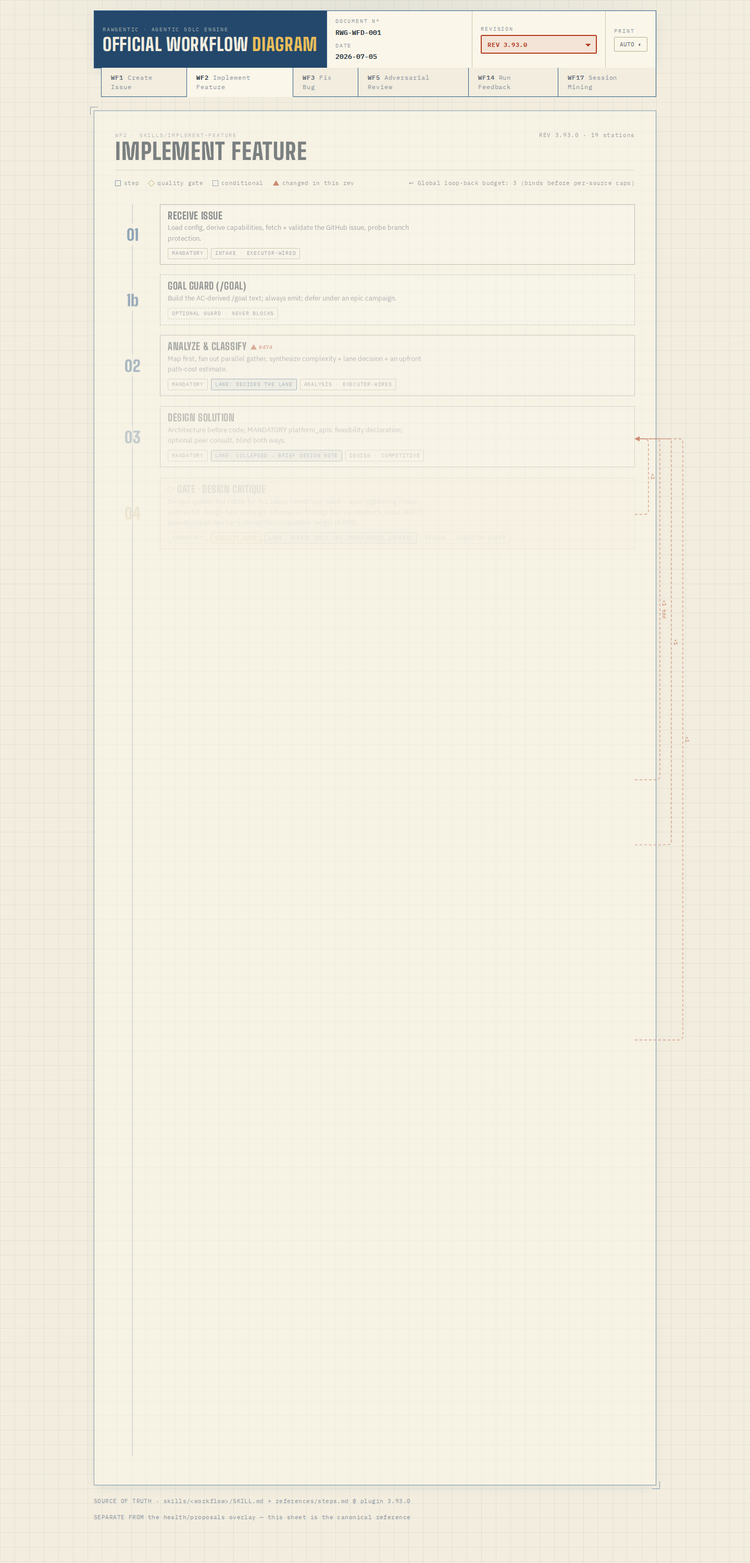
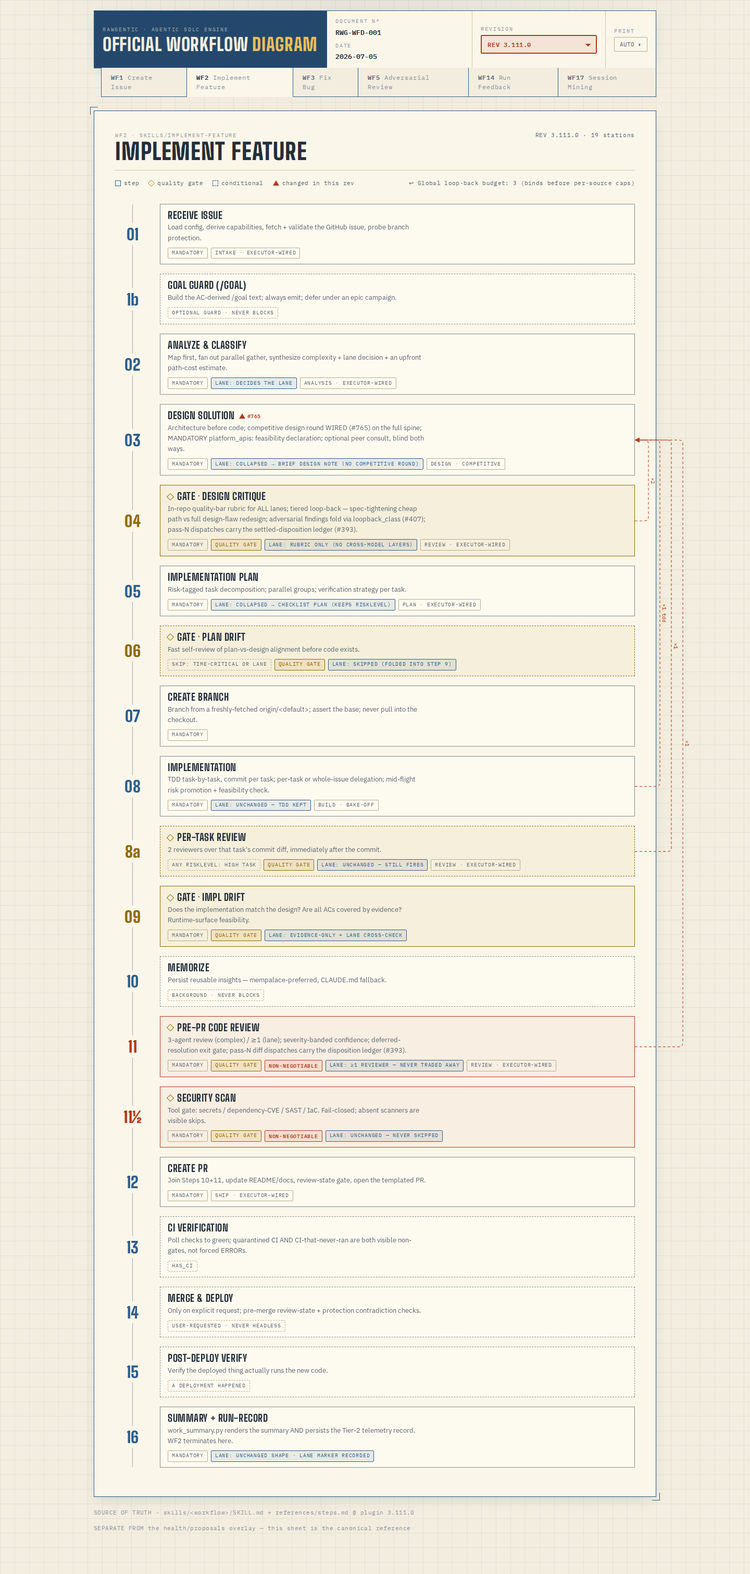
feat(diagram): REV 3.111.0 — station-3 bake-off wired; snapshot waits out the draw-in animation (#765)

diff --git a/docs/workflow-diagram.html b/docs/workflow-diagram.html
@@ -246,7 +246,7 @@ dialog.modal .sheet{margin-top:0;border:0;box-shadow:none;animation:none}
   <main id="app"></main>
 
   <div class="prov">
-    <span>SOURCE OF TRUTH · skills/&lt;workflow&gt;/SKILL.md + references/steps.md @ plugin 3.93.0</span>
+    <span>SOURCE OF TRUTH · skills/&lt;workflow&gt;/SKILL.md + references/steps.md @ plugin 3.111.0</span>
     <span>SEPARATE FROM the health/proposals overlay — this sheet is the canonical reference</span>
   </div>
 </div>
@@ -259,7 +259,7 @@ const DATA = {
   workflows: {
   wf2: {
     code:"WF2", name:"Implement Feature", skill:"skills/implement-feature",
-    revs:["3.93.0","3.78.0","3.75.0","3.40.0","3.39.0","3.18.0","3.17.0","3.16.0","3.13.0","3.12.0","3.10.0","3.1.0"],
+    revs:["3.111.0","3.93.0","3.78.0","3.75.0","3.40.0","3.39.0","3.18.0","3.17.0","3.16.0","3.13.0","3.12.0","3.10.0","3.1.0"],
     loopbacks:[
       {from:"4",to:"3",label:"×2"},
       {from:"8",to:"3",label:"×1 tdd"},
@@ -268,7 +268,123 @@ const DATA = {
     ],
     loopnote:"Global loop-back budget: 3 (binds before per-source caps)",
     versions: {
-      "3.93.0": { superseded:false, steps:[
+      "3.111.0": { superseded:false, steps:[
+        {id:"1", num:"01", name:"Receive Issue", kind:"step", mand:true,
+         sum:"Load config, derive capabilities, fetch + validate the GitHub issue, probe branch protection.",
+         lane:"unchanged",
+         purpose:"Foundation — wrong issue means wrong implementation. Loads the project config through capabilities_lib (one tested source of truth, never hand-derived), fetches and validates the issue, surfaces the detected capabilities for confirmation, and probes server-side branch protection so a passed PR never overstates its guarantees.",
+         sub:[["a","Load .rawgentic.json via capabilities_lib derive — config and capabilities objects feed every later step"],["b","Fetch the issue via gh; validate it exists and is open"],["c","WF1-origin check; extract acceptance criteria, components, complexity from the body"],["d","Display issue + capabilities + the suggested goal guard; one confirmation round-trip"],["e","CI-quarantine staleness nag when quarantined >30 days (advisory, never blocks)"],["f","Branch-protection probe → classify (protected / unprotected / unknown); carried to Steps 12 + 14"]],
+         facts:[["Config","capabilities_lib — one source of truth"],["Probe","fail-open; unknown ≠ unprotected"],["Closed issue","ask reopen · headless ERROR"]]},
+        {id:"1b", num:"1b", name:"Goal Guard (/goal)", kind:"step", mand:false, cond:"optional guard · never blocks",
+         sum:"Build the AC-derived /goal text; always emit; defer under an epic campaign.",
+         lane:"unchanged",
+         purpose:"Gives the session's Stop-hook a concrete AC-derived condition so a run can't be silently abandoned before the acceptance criteria are met. A skill cannot set a session goal itself — it constructs the text; the user or headless driver runs it.",
+         sub:[["a","Build via plan_lib.build_goal_text(issue, ACs, variant=\"wf2\") — ≤4000 chars, PR-terminal wording, escape disjunct appended"],["b","Fold into Step 1's confirmation — no second prompt; declining is always valid"],["c","ALWAYS emit — the skill can't observe whether a prior goal is active, so it never suppresses"],["d","Epic-campaign exception: RAWGENTIC_EPIC_GOAL set → DEFER (the epic-level goal already guards the run)"],["e","Record the marker; Step 16 reads it into the run-record goal_guard field"]],
+         facts:[["Wording","PR-terminal — never \"merged\""],["Marker vocab","set · deferred · skipped · fired"]]},
+        {id:"2", num:"02", name:"Analyze & Classify", kind:"step", mand:true,
+         sum:"Map first, fan out parallel gather, synthesize complexity + lane decision + an upfront path-cost estimate.",
+         lane:"decides the lane",
+         purpose:"Complexity classification drives every downstream decision — it is AUTHORITATIVE and overrides any issue label. The lane decision (plan_lib.lane_decision) and the trivial-work check are the two places WF2 right-sizes its own ceremony — and the #224 path estimate makes that choice informed: agent count + rough minutes for both paths, before committing to the heavy spine.",
+         sub:[["a","Component mapping runs first — every other analysis consumes it; remaining analyses fan out as concurrent EXECUTOR dispatches of the analysis seat (D-2, ≤3 concurrent)"],["b","Dependency / blast-radius analysis → existing-test inventory (sequential pair)"],["c","Memory recall (mempalace) + library research (Context7) — concurrent lanes"],["d","Synthesis: complexity class, lane eligibility, trivial-work check (the one sanctioned WF2 exit)"],["e","Path estimate (#224): plan_lib.estimate_agents for BOTH paths, emitted before the lane choice; high-risk = lower bound; estimate, not a contract"],["f","Lane election (#225): secondary signal (≤3 bounded defects, each ≤7, total ≤21) or operator override (Force lane / RAWGENTIC_WF2_FORCE_LANE) — hard guards unbypassable; sanctioned count logged for Step 9"],["g","Worktree-isolation probe + executor probe at run start → begin-run DECLARES the run architecture in the ledger initial record (#474); executor is the DEFAULT (defaultArchitecture absent = executor), never mixed mid-run"]],
+         facts:[["Classes","simple · standard · complex"],["Lane rule","≤7 impl files (or #225 election: ≤3 defects · total ≤21), no arch/migration/dep"],["Estimate","estimate_agents · derived, never hard-coded"],["Architecture","begin-run declares · executor default · legacy = joint rollback (#474)"]]},
+        {id:"3", rev:{delta:"Competitive bake-off WIRED (owner decision D26): full-spine design generation dispatches one sol-vs-opus round via bakeoff_policy.py design-round, glm-judged, carrying the run's identity into the audit record; the lane keeps its brief note",refs:["#765"]}, num:"03", name:"Design Solution", kind:"step", mand:true,
+         sum:"Architecture before code; competitive design round WIRED (#765) on the full spine; MANDATORY platform_apis: feasibility declaration; optional peer consult, blind both ways.",
+         lane:"collapsed → brief design note (no competitive round)",
+         purpose:"Produce the design document before any implementation: file changes, configuration, error handling and failure modes, security implications — plus project-type extras (data flow + migrations for applications, containers + rollback for infrastructure). The small-standard lane collapses this to a brief design note because bounded work has one obvious approach.",
+         sub:[["a","Competitive design round (#765, full spine): python3 hooks/bakeoff_policy.py design-round --prompt-file <brief> --run-id wf2-<issue>-<session> --correlation-id <issue>-s3-design — sol vs opus concurrent, glm-5.2 judge, the winner's exact bytes become the design draft; sanitized --evidence-out record joins the run's audit context (raw sink stays gitignored); judge failure: exit 3 fail-loud interactive, judge_degraded incumbent under --headless"],["b","Opt-in peer consult dispatches in the BACKGROUND, blind both ways — your own draft must be on disk before reading the peer's"],["c","2–3 approaches (complex, via subagent brainstorm) or 1–2 inline (standard); pick with rationale"],["d","Design doc: file changes, config changes, error handling, security implications (+ type-specific sections)"],["e","Multi-PR assessment: >500 lines or separable phases → flag for decomposition in Step 5"],["f","Peer-consult failure is non-blocking — gate on exit code; empty proposal → proceed with your own design"],["g","platform_apis: declaration — `none` or evidence-cited blocks; assumed=Step-4 blocker; working-precedent = exact API on exact object kind; fail-silent needs a surfacing assertion"]],
+         facts:[["Bake-off","WIRED (#765) · sol vs opus · glm judge · run-identity on record"],["Peer consult","opt-in · background · non-blocking"],["Blindness","own draft first, both ways"],["Feasibility","platform_apis: mandatory · omission blocks (#226)"]]},
+        {id:"4", num:"04", name:"Gate · Design Critique", kind:"gate", mand:true,
+         sum:"In-repo quality-bar rubric for ALL lanes; tiered loop-back — spec-tightening cheap path vs full design-flaw redesign; adversarial findings fold via loopback_class (#407); pass-N dispatches carry the settled-disposition ledger (#393).",
+         lane:"rubric only (no cross-model layers)",
+         purpose:"Catches design flaws BEFORE implementation — the cheapest place to catch them. Every lane runs the in-repo quality-bar rubric (stance + depth triage + finding shape); the full spine may add the opt-in cross-model adversarial-on-design pass, dispatched CONCURRENTLY with the self-review and joined at a single barrier. Not every Critical/High costs a full redesign: a pure spec-tightening set (wording, stale anchors, internal contradictions) takes a cheap amend-and-verify pass in-gate (#223).",
+         sub:[["a","Self-review the design against the quality-bar rubric → findings with severity, category, ambiguity flag, Loopback-class (Critical/High)"],["b","(full spine, opt-in) adversarial-on-design — cross-model, report-only, dispatched concurrently"],["c","Join barrier: merge self-review + adversarial findings; the ambiguity circuit-breaker runs EXACTLY once"],["d","Volume thresholds → loop back to Step 3 (max 2) via plan_lib.consume_loopback; NEVER folds to the cheap path; in-flight adversarial result is discarded as stale"],["e","Post-breaker fold (#223, #407): classify_loopback_source over the Critical/High Loopback-class tags — adversarial findings contribute via adversarial_review_lib.loopback_class_entries (security-category → untagged UNCONDITIONALLY; exact-vocab after strip; absent/off-vocab → untagged); all spec-tightening → consume spec_tighten (max 2), amend sections in place + ONE incremental verifier whose brief carries the originating findings from the --findings-json sidecar (each confirmed resolved or escalate), no Step-3 return; escalate on any new Critical/High or ambiguity"],["f","Cross-model failure is non-blocking — the breaker still runs over self-review findings alone"],["g","Platform-feasibility (#226): run plan_lib.assert_feasibility_declared over platform_apis:; non-ok = blocking; also flag a used-but-undeclared API"],["h","Pass-N ledger dispatch (#393): fold dispositions.jsonl \u2192 0600 temp copy \u2192 --dispositions/--issue on the engine call; exit 6 \u2192 failed (ledger integrity) loud abort; benign failures \u2192 ledger: degraded marker, review still runs"],["i","Gate close (#393): append each Critical/High terminal disposition via plan_lib.append_disposition; join backstop auto-dissolves DECLINED/DISSOLVED re-litigation (REOPENS-aware), surfaces ADOPTED matches as possible failed remediation"]],
+         facts:[["Loop-back","→ Step 3 ×2 (design) · in-gate ×2 (spec_tighten)"],["Breaker","EXACTLY once, merged findings"],["Fold","fail-closed; untagged/volume → full path; adversarial foldable via loopback_class (#407)"],["Ledger","dispositions.jsonl · pass-N memory (#393)"]]},
+        {id:"5", num:"05", name:"Implementation Plan", kind:"step", mand:true,
+         sum:"Risk-tagged task decomposition; parallel groups; verification strategy per task.",
+         lane:"collapsed → checklist plan (keeps riskLevel)",
+         purpose:"Task decomposition enables TDD and progress tracking. Every task carries a riskLevel against 8 canonical criteria — high-risk tasks are what trigger the Step 8a per-task review — and the plan format fails closed: a task without a riskLevel line is a parse error, never a silent default.",
+         sub:[["a","Branch naming: feature/<issue>-<slug> or fix/<issue>-<slug>"],["b","Decompose into 2–10-minute tasks; Red-Green-Refactor per task (or Implement-Verify without tests)"],["c","parallel_group + files lines; plan_lib.validate_parallel_groups proves disjointness — unprovable groups degrade to serial"],["d","riskLevel: high|standard per the 8 criteria (security surface, module boundary, error flow, infra, middleware, deserialization, subprocess, regex-on-untrusted); path allowlist auto-tags high"],["e","Calibration bands: warn >30% high-risk · halt >50% · decompose ≥80% · implausible-zero flagged"],["f","Verification strategy per task; deferred-to-target(reason) for unexercisable artifacts — a deferral still requires its best local proxy"]],
+         facts:[["Risk criteria","8, canonical in plan_lib"],["Ratio bands","warn 30 · halt 50 · decompose 80"],["Format","riskLevel missing → fail closed"]]},
+        {id:"6", num:"06", name:"Gate · Plan Drift", kind:"gate", mand:false, cond:"skip: time-critical or lane",
+         sum:"Fast self-review of plan-vs-design alignment before code exists.",
+         lane:"SKIPPED (folded into Step 9)",
+         purpose:"Lightweight check that the plan still implements the critiqued design. The one step the small-standard lane removes entirely — a 3-task checklist has no drift surface; Step 9 still verifies acceptance-criteria coverage.",
+         sub:[["a","Rubric over: design→task mapping, verification completeness, AC coverage, task ordering, checkpoint adequacy"],["b","(opt-in) adversarial-on-plan — merged findings, one breaker, report-only"],["c","Critical/High design-level flaw → consume ONE design loop-back, return to Step 3"]],
+         facts:[["Skip","time-critical or lane"],["Loop-back","shares the design source (×2 total)"]]},
+        {id:"7", num:"07", name:"Create Branch", kind:"step", mand:true,
+         sum:"Branch from a freshly-fetched origin/<default>; assert the base; never pull into the checkout.",
+         lane:"unchanged",
+         purpose:"Git isolation is non-negotiable. git pull into the current checkout would merge the default INTO whatever branch is checked out — in a multi-issue campaign that silently carries a sibling's unmerged commits into this PR. Fetch, branch off origin/<default>, and assert the base before writing any code.",
+         sub:[["a","Clean-tree check; stash if dirty (headless: always stash + note it on the issue)"],["b","git fetch origin <default>; git checkout -b <branch> origin/<default> — never pull first"],["c","Base assertion: merge-base HEAD == origin/<default> HEAD, or STOP — never build on a wrong base"],["d","Push -u origin; comment the branch on the issue"]],
+         facts:[["Base assert","BASE_OK or STOP"],["Why no pull","sibling-branch mutation hazard"]]},
+        {id:"8", num:"08", name:"Implementation", kind:"step", mand:true,
+         sum:"TDD task-by-task, commit per task; per-task or whole-issue delegation; mid-flight risk promotion + feasibility check.",
+         lane:"unchanged — TDD kept",
+         purpose:"The actual work. Each plan task runs red-before-green TDD and commits atomically, staging ONLY that task's files. Delegated builds run in isolated git worktrees; the typing can be delegated but the gating never is — every receipt claim is re-verified against the real tree.",
+         sub:[["a","Per task: RED failing test → GREEN minimum code → REFACTOR; conventional commit staging only this task's files"],["b","Per-task model via select_impl_model — the routed model is a CEILING, not a blanket; never Haiku for code"],["c","Delegation: per-task worktree agents (collect the SHA, assert the branch advanced — an unlanded SHA is not done) or one whole-issue build validated by receipt"],["d","Mid-flight risk promotion: mechanical (path allowlist, ≥200 LOC) or agent-flagged → fires Step 8a + a retroactive scan of prior commits"],["e","A fundamental design flaw loops back to Step 3 (max 1, source: tdd)"],["f","Push at natural checkpoints; concurrent execution stays off by default (serial floor)"],["g","Mid-flight feasibility check (#226): a fix/iteration that introduces a NEW platform API bypassing the design gate applies the AC1/3/4 check inline before committing"]],
+         facts:[["Build seat","supervised: gate-auth · --plan-file mint · two-phase canary · probe session · codex-only mutating"],["Architecture","executor default · NO runtime fallback · legacy = declared rollback only (#474)"],["Loop-back","→ Step 3, max 1 (source: tdd)"],["Isolation","git worktree per mutating agent"],["Mid-flight feasibility","gate-bypassing changes re-checked (#226)"]]},
+        {id:"8a", num:"8a", name:"Per-Task Review", kind:"gate", mand:false, cond:"any riskLevel: high task",
+         sum:"2 reviewers over that task's commit diff, immediately after the commit.",
+         lane:"unchanged — still fires",
+         purpose:"Risk-stratified review (P15): high-risk tasks get reviewed at the commit, when the diff is small and the fix is cheap, instead of waiting for the PR-sized diff. Severity-banded confidence keeps Critical/High findings from being hidden behind a high confidence bar.",
+         sub:[["a","Capture the commit's diff (git show)"],["b","2 parallel reviewers: code-level (style/bugs/logic) + silent-failure hunt (swallowed catches, unchecked async, missing rejects)"],["c","Severity-banded confidence filter (Crit .50 · High .65 · Med .80 · Low .90)"],["d","Triage: Critical blocks the next task; High fixes-or-defers (a deferral MUST be re-presented at Step 11); Med/Low advisory"],["e","Review log + review-state pointer (local, git-excluded) updated; design-level flaw → loop-back (×1, source: review_design)"]],
+         facts:[["Reviewers","2 (inline roles)"],["Loop-back","→ Step 3, max 1 (source: review_design)"],["Confidence bands","Crit .50 · High .65 · Med .80 · Low .90"]]},
+        {id:"9", num:"09", name:"Gate · Impl Drift", kind:"gate", mand:true,
+         sum:"Does the implementation match the design? Are all ACs covered by evidence? Runtime-surface feasibility.",
+         lane:"evidence-only + lane cross-check",
+         purpose:"Part A: alignment self-review — plan↔implementation, design↔implementation, an explicit test covering each acceptance criterion, docs updated. Part B: evidence — run the full suite and record the delta against the recorded baseline. The lane runs Part B only, plus a cross-check that the REAL changed-file count didn't overshoot the lane estimate.",
+         sub:[["a","Part A: plan/design/AC/docs alignment via the quality-bar rubric"],["b","P15 coverage assertion: every high-risk task has an applied|deferred review-log entry — REVIEW_DISPATCH_FAILED never counts"],["c","Implausibility check: a 0%-high-risk plan whose diff touches security paths fails Part A"],["d","Part B: full suite vs baseline; new tests must test NEW behavior; no regressions"],["e","Deferred-to-target tasks listed with their local proxy — never counted as verified, never silently passed"],["f","Lane cross-check: recount impl files from the real diff; material overshoot → lane-widened note (never retroactive failure)"],["g","Runtime-surface feasibility (#226): a real-surface spike OR a deferred-to-target naming the single likeliest-wrong claim in target_check — a green suite doesn't exercise a permission-gated call"]],
+         facts:[["Lane cross-check","real count vs LANE_MAX_IMPL_FILES"],["Runtime surface","spike or name the likeliest-wrong claim (#226)"]]},
+        {id:"10", num:"10", name:"Memorize", kind:"step", mand:false, cond:"background · never blocks",
+         sum:"Persist reusable insights — mempalace-preferred, CLAUDE.md fallback.",
+         lane:"unchanged",
+         purpose:"Curates insights discovered during the run into durable memory — patterns applicable beyond this issue, never issue-local trivia. Dispatched in parallel with Step 11 and never blocks the workflow.",
+         sub:[["a","Review the gate findings from Steps 4, 6, 9 for reusable patterns"],["b","Store via mempalace kg_add (facts/decisions) or add_drawer (notes), scoped to the project"],["c","Fallback on absence OR store failure: dedup-check against CLAUDE.md/MEMORY.md, append if novel"],["d","Nothing reusable → skip entirely"]],
+         facts:[["Runs","parallel with Step 11, background"],["Fallback","on absence OR store failure"]]},
+        {id:"11", num:"11", name:"Pre-PR Code Review", kind:"gate", mand:true, nonneg:true,
+         sum:"3-agent review (complex) / ≥1 (lane); severity-banded confidence; deferred-resolution exit gate; pass-N diff dispatches carry the disposition ledger (#393).",
+         lane:"≥1 reviewer — never traded away",
+         purpose:"NON-NEGOTIABLE. This step found 2 Critical security issues (HTML injection + path traversal) on a run the orchestrator judged too simple to review. Read-only reviewer agents hunt real defects over the full branch diff; every Step 8a deferral must be re-evaluated here, and Step 11 cannot complete while any Critical/High remains unresolved.",
+         sub:[["a","Diff vs the default branch; P15 pre-flight passes reviewed SHAs + verbatim deferred findings to every reviewer"],["b","3 parallel reviewers: style/conventions · bugs/logic/edge-cases · architecture/history/security (≥1 in the lane)"],["c","(opt-in) adversarial diff review — cross-model, high-risk-first patch, sidecar findings merged before filtering; failures loud, never treated as passed; pass-N dispatches carry --dispositions/--issue per the Step-4 ledger sequence (#393)"],["d","Severity-banded confidence filter; fix every Critical/High; evaluate findings before fixing (YAGNI push-back allowed)"],["e","Deferred-resolution exit gate: no unresolved High deferrals; defer_count ≥2 requires explicit user ack"],["f","Committed review-state pointer set to applied — Step 12 refuses the PR without it"],["g","Gate close (#393): persist Critical/High terminal dispositions to dispositions.jsonl via plan_lib.append_disposition"]],
+         facts:[["Reviewers","3 complex · ≥1 lane"],["Loop-back","→ Step 3, max 1 (source: review)"],["Exit","no unresolved Critical/High"],["Ledger","shared Step-4 sequence (#393)"]]},
+        {id:"11.5", num:"11½", name:"Security Scan", kind:"gate", mand:true, nonneg:true,
+         sum:"Tool gate: secrets / dependency-CVE / SAST / IaC. Fail-closed; absent scanners are visible skips.",
+         lane:"unchanged — never skipped",
+         purpose:"Step 11 is the LLM reasoning about the diff; this step runs the actual scanners. They catch concrete known-pattern problems reasoning misses — a leaked token, a CVE'd transitive dependency. The same shared lib backs /rawgentic:scan, so the two callers can never drift.",
+         sub:[["a","security_scan.py: secrets + SCA + SAST (+ IaC when Docker); diff-scoped where possible; JSON gate object authoritative"],["b","Blocking findings fix-before-PR; a real committed secret must be ROTATED — deleting it doesn't un-leak history"],["c","Scanner errors fail closed — \"couldn't tell\" is never \"secure\""],["d","Advisory findings recorded in the PR body; fixed if easy"],["e","Skipped scanners recorded in session notes + PR body — a skip is visible, never a silent pass"]],
+         facts:[["Shared lib","same engine as /rawgentic:scan"],["Exit","0 pass · 1 blocked · 2 usage error"]]},
+        {id:"12", num:"12", name:"Create PR", kind:"step", mand:true,
+         sum:"Join Steps 10+11, update README/docs, review-state gate, open the templated PR.",
+         lane:"unchanged",
+         purpose:"The deliverable — no PR means no review trail. Docs are a mandatory decision, not an afterthought: decide explicitly whether anything user-facing changed, and say so in the PR body when nothing did. The body carries the full gate summary plus the branch-protection line from Step 1.",
+         sub:[["a","Join barrier: Steps 10 and 11 both complete"],["b","README + docs mandatory decision (the Changelog entry is the most common miss)"],["c","(opt-in) HTML design artifact created-or-updated BEFORE the PR — shared-doc or per-issue mode, rendered via the shared helper with real run telemetry"],["d","Final push + pre-PR test gate (full suite must be green)"],["e","Review-state gate: refuses to open the PR unless the committed pointer reads applied"],["f","Templated body: Summary · Design Decisions · Verification · Deferred verification (canonical heading) · Quality Gate Summary + protection line"]],
+         facts:[["Review-state gate","no PR unless applied"],["Deferred section","one canonical heading, keyed by 3 gates"]]},
+        {id:"13", num:"13", name:"CI Verification", kind:"step", mand:false, cond:"has_ci",
+         sum:"Poll checks to green; quarantined CI AND CI-that-never-ran are both visible non-gates, not forced ERRORs.",
+         lane:"unchanged",
+         purpose:"Monitor and fix CI when the project has it. A quarantined CI is a visible non-gate — observed, recorded verbatim, never blocking and never reported green. When no run ever spawns (Actions disabled / minutes exhausted), \"PR open with green CI\" is structurally unsatisfiable — recorded as a visible non-gate too, never forced into the ERROR protocol (#232). The trust guard stops a PR from disabling its own gate: quarantine only counts when it comes from the base config, not this branch's diff.",
+         sub:[["a","Poll gh run list for the branch (30s cadence, 10-minute ceiling)"],["b","Red run → diagnose via --log-failed, fix, push; CI re-runs"],["c","Quarantined: record \"run <status>, not gating\" in session notes + PR body; never diagnose, never claim green"],["d","Trust guard: a branch that INTRODUCED/ALTERED the quarantine gates normally + surfaces the change for owner approval"],["e","CI structurally unavailable (no run spawned / Actions exhausted) → visible non-gate \"CI unavailable: not gating\", never a forced ERROR (#232)"]],
+         facts:[["Quarantine","base config only — a PR can't self-disable its gate"],["Unavailable","no run spawned → non-gate, not ERROR"],["Poll","30s cadence · 10 min ceiling"]]},
+        {id:"14", num:"14", name:"Merge & Deploy", kind:"step", mand:false, cond:"user-requested · never headless",
+         sum:"Only on explicit request; pre-merge review-state + protection contradiction checks.",
+         lane:"unchanged",
+         purpose:"Merge is owner-gated; headless runs are PR-terminal and never merge, deploy, or SSH (enforced at the hook layer too). Before merging, the review-state pointer is re-read and the quarantine×protection contradiction check prevents squash-merging into a server-side wall.",
+         sub:[["a","P15 pre-merge gate: review-state must read applied"],["b","Quarantine × protection contradiction check — quarantined CI + required status checks would wall the merge; STOP and surface"],["c","Squash merge --delete-branch; pull main; state-file cleanup on success"],["d","Deploy per capabilities.deploy_method: script / ssh / compose / manual-with-confirmation"],["e","Headless: this ENTIRE step is skipped — CI deploys when a human merges"]],
+         facts:[["Headless","PR-terminal; wal-guard blocks SSH"],["Cleanup","state files removed on merge success"]]},
+        {id:"15", num:"15", name:"Post-Deploy Verify", kind:"step", mand:false, cond:"a deployment happened",
+         sum:"Verify the deployed thing actually runs the new code.",
+         lane:"unchanged",
+         purpose:"Health checks, acceptance-criteria spot-checks, and a regression pass over what was deployed — gated on a signal only the NEW build emits, because during a zero-downtime swap a 200 can be the old container answering.",
+         sub:[["a","Health checks per affected service, generated from the implementation context"],["b","AC spot-check via the plan's verification commands"],["c","Regression check: did existing functionality break?"],["d","Liveness gated on a new-build-only signal (boot timestamp, deploy id, new behavior)"]],
+         facts:[["200 trap","an old container can answer 200"]]},
+        {id:"16", num:"16", name:"Summary + Run-Record", kind:"step", mand:true,
+         sum:"work_summary.py renders the summary AND persists the Tier-2 telemetry record. WF2 terminates here.",
+         lane:"unchanged shape · lane marker recorded",
+         purpose:"The completion summary is not hand-typed — its shape used to drift and nothing was captured for analysis. The structured run-record is the Tier-2 telemetry substrate: every gate's findings-caught-vs-resolved becomes a measurable signal. A dropped field is a measurement gap, so the step is not optional even when nothing deployed.",
+         sub:[["a","Assemble the run-record per references/run-record.md — every documented key PRESENT, counts sane"],["b","Usage capture from the session transcript — fail-closed: a captured record can never persist with null tokens"],["c","Lane marker (small-standard vs full) keeps lane runs measurable against full runs"],["d","work_summary.py renders the summary (its stdout IS the summary) + appends to docs/measurements/run_records.jsonl"],["e","rc 1 = rendered but not persisted — a telemetry gap to fix or record, never ignore"],["f","Completion-gate checklist re-verified before WF2 may terminate"]],
+         facts:[["Store","docs/measurements/run_records.jsonl"],["rc","0 persisted · 1 gap · 2 usage error"]]}
+      ]},
+      "3.93.0": { superseded:"3.111.0", steps:[
         {id:"1", num:"01", name:"Receive Issue", kind:"step", mand:true,
          sum:"Load config, derive capabilities, fetch + validate the GitHub issue, probe branch protection.",
          lane:"unchanged",

diff --git a/hooks/diagram_seat_data.py b/hooks/diagram_seat_data.py
@@ -40,7 +40,7 @@ _CLASSIFICATIONS = ("executor-wired", "competitive", "bake-off")
 PHASE_SEAT_MAP = (
     ("1", "intake", "Executor", ("#447",)),
     ("2", "analysis", "Agent tool", ("#447",)),
-    ("3", "design", "Executor (competitive)", ("#447",)),
+    ("3", "design", "Executor (competitive)", ("#447", "#765")),
     ("4", "review", "Executor (design-critique)", ("#447",)),
     ("5", "plan", "Executor", ("#447",)),
     ("8", "build", "Agent tool (worktree)", ("#447",)),
